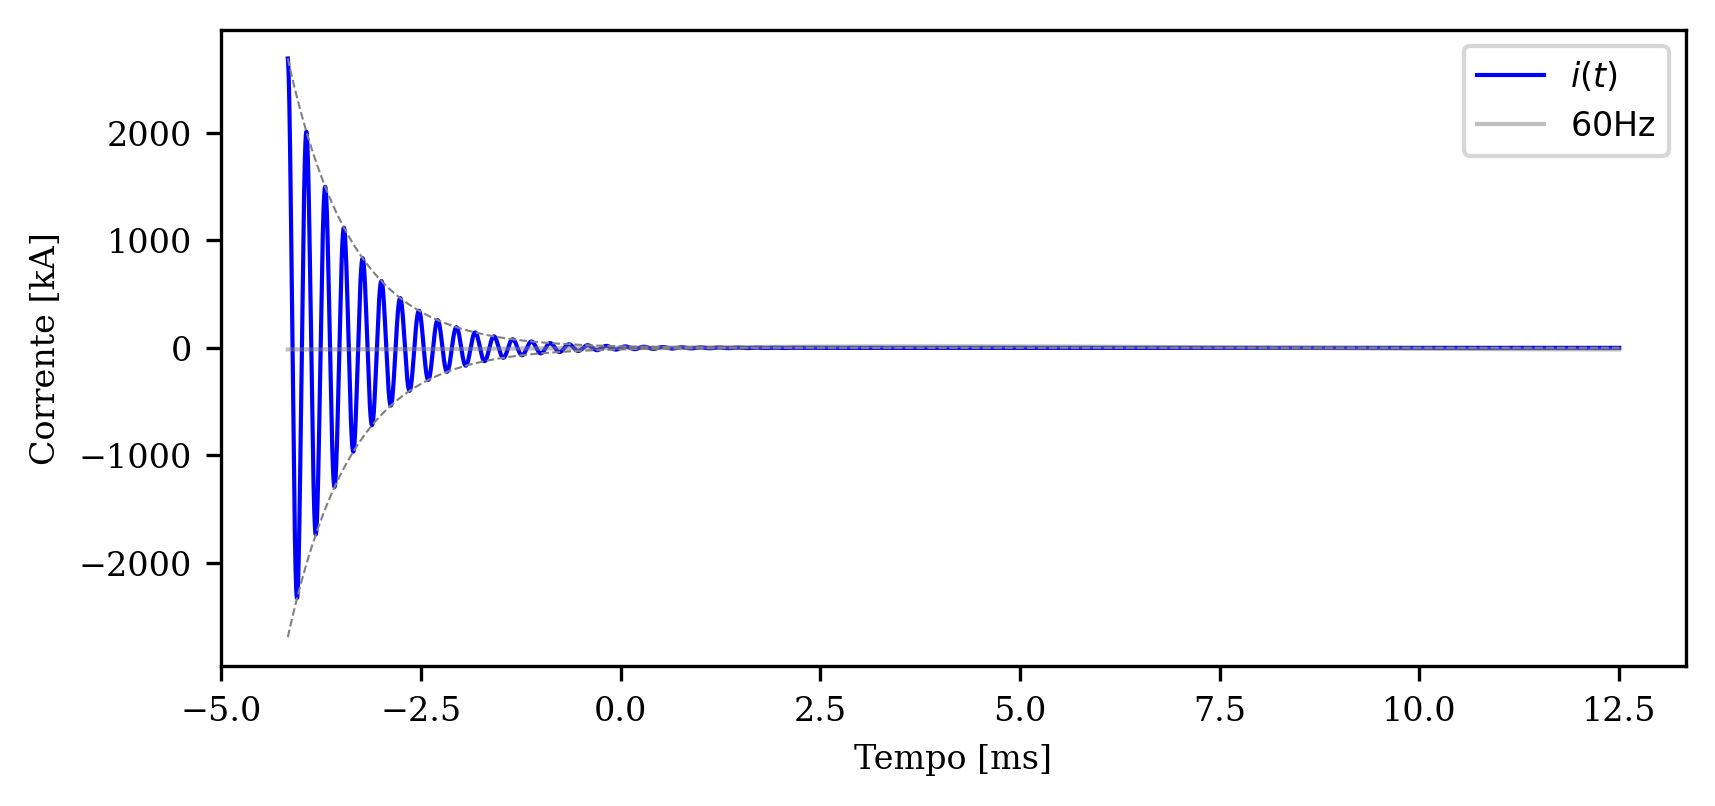
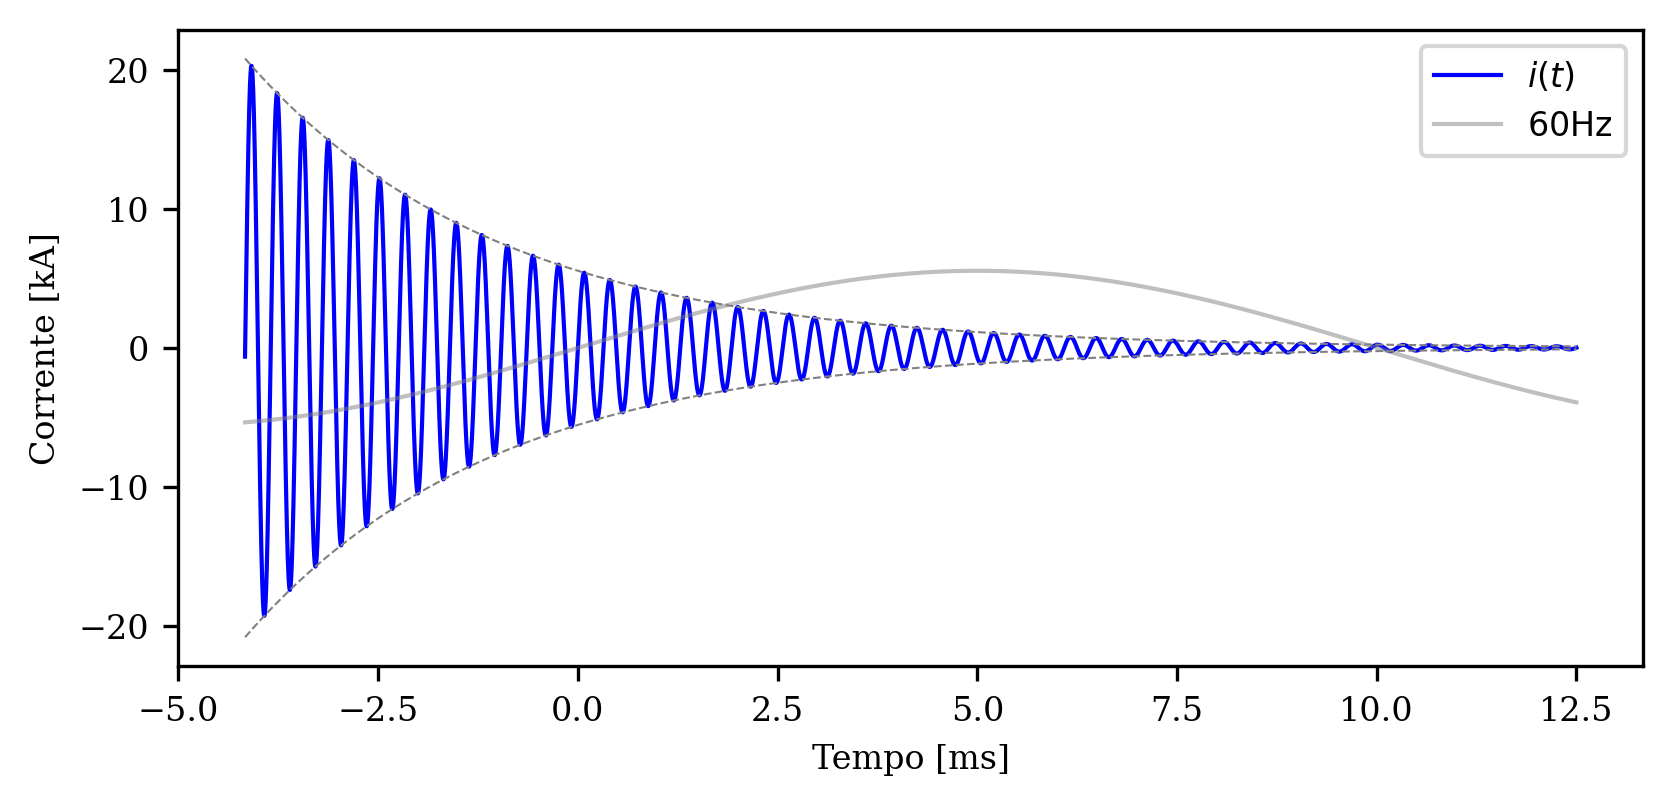
Add files via upload

diff --git a/Report_Inrush_DAX_1.75kVAr_15.0kV_uH100.0.tex b/Report_Inrush_DAX_1.75kVAr_15.0kV_uH100.0.tex
@@ -94,14 +94,23 @@ A energização de um banco de capacitores (Figura \ref{fig:picture1}) pelo fech
 	
 \section{Dados de entrada do banco}
 \begin{itemize}[label=\textendash]
-	\item	Potencia reativa  = {{potencia_reativa_do_banco}}
-	\item	Tensão trifásica  = {{tensao_trifasica}}
-	\item	Tensão monofásica  = {{tensao_monofasica}}
-	\item	Corrente de curto-circuito  = {{corrente_de_curto}}
+	\item	Potencia reativa  = {{5.25 MVAr}}
+	\item	Tensão trifásica  = {{15.0 kV}}
+	\item	Tensão monofásica  = {{8.7 kV}}
+	\item	Corrente de curto-circuito  = {{2.5 MA}}
 \end{itemize}
 
 \begin{center}
-	% INSERT_TABLE_HERE
+	\begin{tabular}{lllllllllll}
+\toprule
+ & $Q_{3\phi}$ & $Q_{1\phi}$ & $V_{3\phi}$ & $V_{1\phi}$ & $I_{1\phi}$ & $X_{1\phi}$ & $C_{1\phi}$ & $L_{1\phi}$ & $I_{p}/I_{n}$ & $f_{0}$ \\
+\midrule
+0 & 1.75 MVAr & 583.33 kVAr & 15.0 kV & 8.7 kV & 67.4 A & 128.6 $\Omega$ & 24.76 µF & 100.0 µH & 83.2 & 3.0 kHz \\
+1 & 1.75 MVAr & 583.33 kVAr & 15.0 kV & 8.7 kV & 67.4 A & 128.6 $\Omega$ & 24.76 µF & 100.0 µH & 43.7 & 3.1 kHz \\
+2 & 1.75 MVAr & 583.33 kVAr & 15.0 kV & 8.7 kV & 67.4 A & 128.6 $\Omega$ & 24.76 µF & 100.0 µH & 58.3 & 3.1 kHz \\
+\bottomrule
+\end{tabular}
+
 \end{center}
 
 
@@ -133,15 +142,15 @@ Essa corrente oscilatória é limitada apenas pela impedância do banco de capac
 	\label{fig:picture2}
 \end{figure}
 
-São os valores obtidos com o reator escolhido ($L_{reator} = {{indutancia_escolhida}} \, \mu \rm{H} $):
+São os valores obtidos com o reator escolhido ($L_{reator} = {{100.0}} \, \mu \rm{H} $):
 \begin{itemize}[label=\textendash]
-	\item	Corrente de pico: {{corrente_pico}};
-	\item	Frequência de Oscilação: {{frequencia_oscilacao}}Hz;
-	\item	Corrente inrush / Corrente nominal: {{inrush_inominal}}
+	\item	Corrente de pico: {{5.6 kA}};
+	\item	Frequência de Oscilação: {{3.1 k}}Hz;
+	\item	Corrente inrush / Corrente nominal: {{83.2}}
 \end{itemize}
 
 \section{Conclusão}
-{{conclusao1}}
+{{Reator adequado, pois $\dfrac{I_{\rm inrush}}{I_{\rm rated}} = $83,16$\le 100$ e $f_{\rm osc} = $3121Hz < 4,25 kHz, IEEE Std C37.012, p. 16[$^{[2]}$](https://ieeexplore.ieee.org/document/7035261) e IEC 62271-100, Table 9 (Preferred values of rated capacitive switching currents), p. 45[$^{[3]}$](https://webstore.iec.ch/publication/62785).}}
 
 \section{Referências}
 

diff --git a/Report_Inrush_DAX_1.75kVAr_18.0kV_uH100.0.tex b/Report_Inrush_DAX_1.75kVAr_18.0kV_uH100.0.tex
@@ -94,14 +94,23 @@
 	
 	\section{Input data from the bank}
 	\begin{itemize}[label=\textendash]
-		\item Reactive power  = {{potencia_reativa_do_banco}}
-		\item Three-phase voltage  = {{tensao_trifasica}}
-		\item Single-phase voltage  = {{tensao_monofasica}}
-		\item Short-circuit current  = {{corrente_de_curto}}
+		\item Reactive power  = {{5.4 MVAr}}
+		\item Three-phase voltage  = {{18.0 kV}}
+		\item Single-phase voltage  = {{10.4 kV}}
+		\item Short-circuit current  = {{2.5 MA}}
 	\end{itemize}
 	
 	\begin{center}
-		% INSERT_TABLE_HERE
+		\begin{tabular}{lllllllllll}
+\toprule
+ & $Q_{3\phi}$ & $Q_{1\phi}$ & $V_{3\phi}$ & $V_{1\phi}$ & $I_{1\phi}$ & $X_{1\phi}$ & $C_{1\phi}$ & $L_{1\phi}$ & $I_{p}/I_{n}$ & $f_{0}$ \\
+\midrule
+0 & 1.8 MVAr & 600.0 kVAr & 18.0 kV & 10.4 kV & 57.7 A & 180.0 $\Omega$ & 17.68 µF & 100.0 µH & 97.5 & 3.5 kHz \\
+1 & 1.8 MVAr & 600.0 kVAr & 18.0 kV & 10.4 kV & 57.7 A & 180.0 $\Omega$ & 17.68 µF & 100.0 µH & 51.7 & 3.7 kHz \\
+2 & 1.8 MVAr & 600.0 kVAr & 18.0 kV & 10.4 kV & 57.7 A & 180.0 $\Omega$ & 17.68 µF & 100.0 µH & 69.0 & 3.7 kHz \\
+\bottomrule
+\end{tabular}
+
 	\end{center}
 	
 	
@@ -128,15 +137,15 @@
 		\label{fig:picture2}
 	\end{figure}
 	
-	The values obtained with the selected reactor ($L_{reator} = {{indutancia_escolhida}} \, \mu \rm{H} $) are:
+	The values obtained with the selected reactor ($L_{reator} = {{100.0}} \, \mu \rm{H} $) are:
 	\begin{itemize}[label=\textendash]
-		\item Peak current: {{corrente_pico}};
-		\item Oscillation Frequency: {{frequencia_oscilacao}}Hz;
-		\item Inrush current / Nominal current: {{inrush_inominal}}
+		\item Peak current: {{5.6 kA}};
+		\item Oscillation Frequency: {{3.7 k}}Hz;
+		\item Inrush current / Nominal current: {{97.5}}
 	\end{itemize}
 	
 	\section{Conclusion}
-	{{conclusao1}}
+	{{Adequate reactor, as $\dfrac{I_{\rm inrush}}{I_{\rm nominal}} = $97.47$\le 100$ e $f_{\rm osc} = $3693Hz < 4,25 kHz, IEEE Std C37.012, p. 16[$^{[2]}$](https://ieeexplore.ieee.org/document/7035261) e IEC 62271-100, Table 9 (Preferred values of rated capacitive switching currents), p. 45[$^{[3]}$](https://webstore.iec.ch/publication/62785).}}
 	
 	\section{References}
 	

diff --git a/back_to_back_v8.py b/back_to_back_v8.py
@@ -3,11 +3,12 @@ Angelo Alfredo Hafner
 aah@dax.energy
 """
 # cuidado
-INDUTOR_DEFAULT = 15.0
-REATIVOS_DEFAULT = 5.0
-TENSAO_DEFAULT = 13.8
-NUM_BANCOS_DEFAULT = 2
-CORRENTE_CURTO_DEFAULT = 1000.0
+INDUTOR_DEFAULT = 100.0
+REATIVOS_DEFAULT = 1.75
+TENSAO_DEFAULT = 15.0
+NUM_BANCOS_DEFAULT = 3
+CORRENTE_CURTO_DEFAULT = 2506.0
+FREQ_DEFAULT = 50.0
 R_EQ_PARA_AMORTECIMENTO = 0.1
 
 import config
@@ -27,9 +28,9 @@ st.markdown(text["title"])
 col0, col1, col2 = st.columns([2, 0.2, 8])
 with col0:
     # Input widgets using `st.text_input` to respect locale decimal separator
-    V_ff_input = st.text_input(text["voltage"], value=inputs_layout.format_input(13.8, language_key))
-    f_fund_input = st.text_input(text["frequency"], value=inputs_layout.format_input(60.0, language_key))
-    I_curto_circuito_input = st.text_input(text["short_circuit_current"], value=inputs_layout.format_input(20.0, language_key))
+    V_ff_input = st.text_input(text["voltage"], value=inputs_layout.format_input(TENSAO_DEFAULT, language_key))
+    f_fund_input = st.text_input(text["frequency"], value=inputs_layout.format_input(FREQ_DEFAULT, language_key))
+    I_curto_circuito_input = st.text_input(text["short_circuit_current"], value=inputs_layout.format_input(CORRENTE_CURTO_DEFAULT, language_key))
 
     # Convert inputs to floats
     V_ff = inputs_layout.parse_input(V_ff_input, language_key) * 1e3 if V_ff_input else None

diff --git a/funcoes_auxiliares.py b/funcoes_auxiliares.py
@@ -19,9 +19,9 @@ def format_input(value, language_key):
     if value is None:
         return ""
     if language_key == 'en':
-        return f"{value:.1f}"
+        return f"{value:.2f}"
     else:
-        return f"{value:.1f}".replace('.', ',')
+        return f"{value:.2f}".replace('.', ',')
 
 
 def custom_slider(label, min_value, max_value, value, step, language_key):
@@ -115,7 +115,7 @@ def calcular_back_to_back(C, L, R_EQ_PARA_AMORTECIMENTO, V_fn, FC, I_fn, w_isola
     tensao_transitoria = np.cos(2 * np.pi * f_fund * t) - X_curto_circuito * i_curto / V_fn
 
     # Formatting the Data for the DataFrame
-    formatter = EngFormatter(unit='VAr', places=1)
+    formatter = EngFormatter(unit='VAr', places=2)
     arrayQ3f_eng = [formatter.format_data(x) for x in Q_3f]
     arrayQ1f_eng = [formatter.format_data(x) for x in Q_1f]
     formatter = EngFormatter(unit='V', places=1)

diff --git a/relatorio.py b/relatorio.py
@@ -47,7 +47,7 @@ from matplotlib.ticker import EngFormatter
 def format_values(soma_Q_3f, V_ff, V_fn, I_curto_circuito, L_reator, i_pico_inicial, omega, i_pico_inicial_todos_pu,
                   conclusao1, maxima_corrente_de_pico_dos_bancos):
     # Create formatters
-    formatter_VAr = EngFormatter(places=1, unit='VAr')
+    formatter_VAr = EngFormatter(places=2, unit='VAr')
     formatter_V = EngFormatter(places=1, unit='V')
     formatter_A = EngFormatter(places=1, unit='A')
     formatter_H = EngFormatter(places=1)
